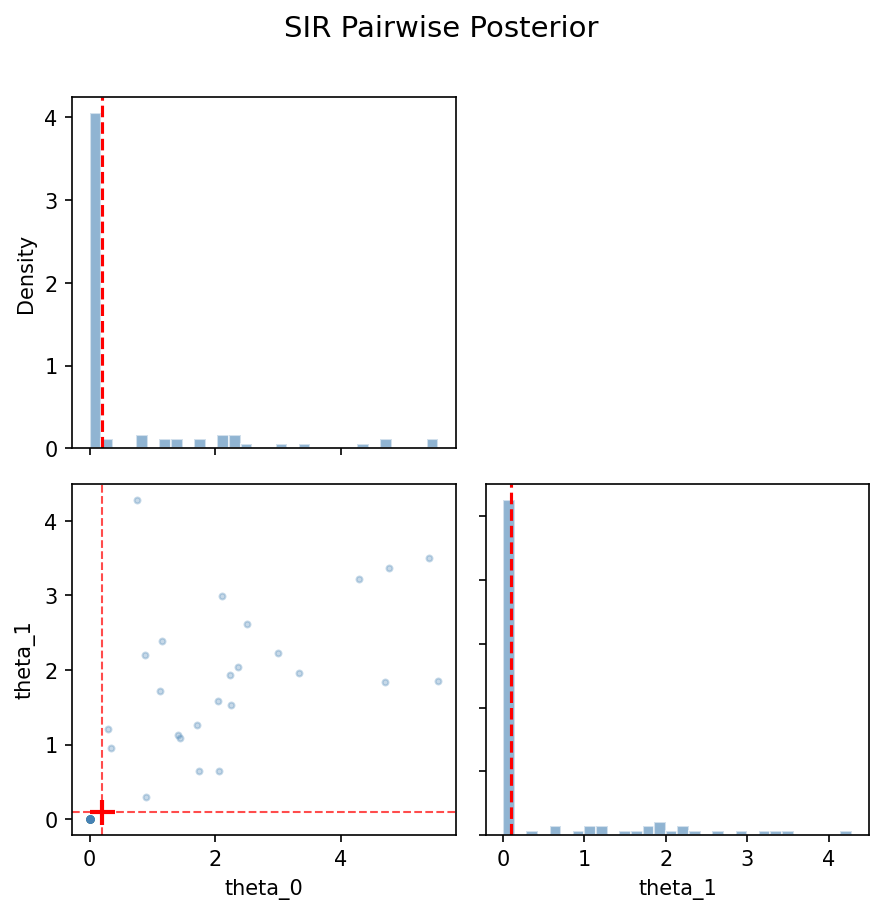
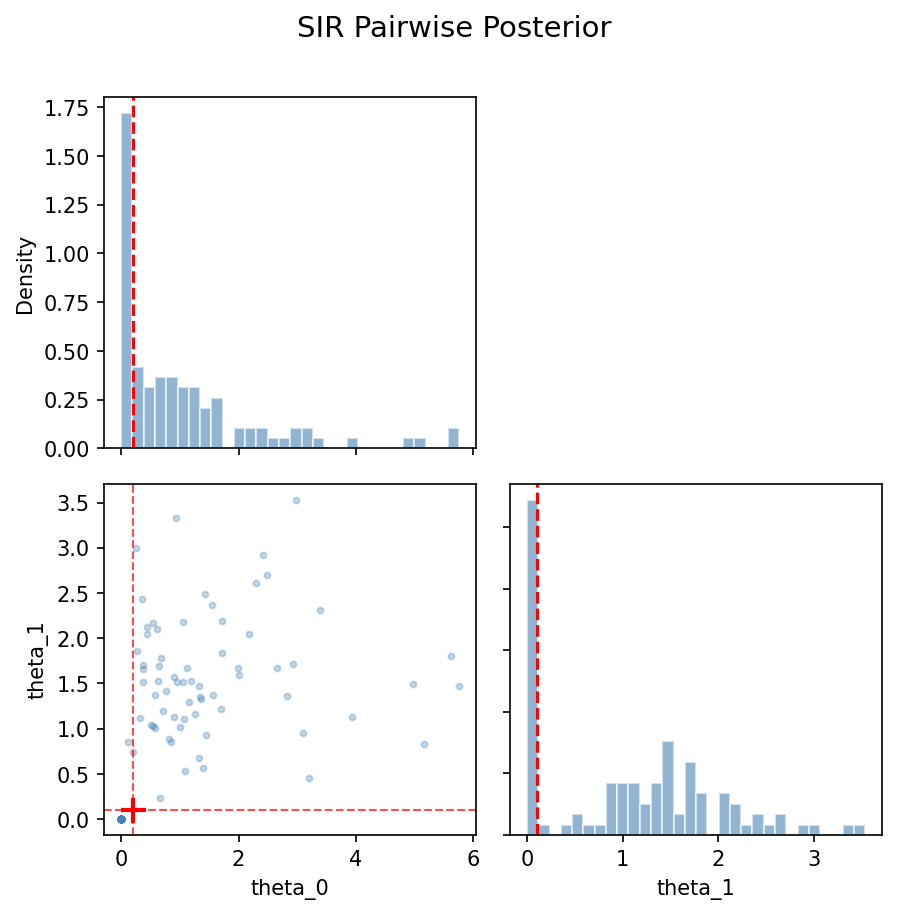
saving sampling results after running

diff --git a/src/config.py b/src/config.py
@@ -1,6 +1,6 @@
 # src/config.py
 config = {
-    "active_sim":"DoubleWellSDE", ## change this part to use different simulator
+    "active_sim":"LinearSDE", ## change this part to use different simulator
     
     "model": {
         "hidden_dim": 128,
@@ -28,10 +28,10 @@ config = {
             "params": {"dim": 5, "sigma": 1.0},
             "target": {"theta_true": [0.5, 0.5, 0.5, 0.5, 0.5], "x0_true": [0.0, 0.0, 0.0, 0.0, 0.0], "time_steps": 50}
         },
-        "PeriodicSDE": { ## currently not working
+        "PeriodicSDE": { 
             "name": "PeriodicSDE",
             "params": {"dt": 0.05, "sigma": 0.5},
-            "target": {"theta_true": [2.0, 0.0], "x0_true": [1.0, 0.0], "time_steps": 5}
+            "target": {"theta_true": [2.0, 0.0], "x0_true": [1.0, 0.0], "time_steps": 1}
         },
         "LinearSDE": {  # diagonal version: d_theta=6, much more stable
             "name": "LinearSDE",
@@ -39,7 +39,7 @@ config = {
             "target": {
                 "theta_true": [0.1, -0.2, 0.3, 0.5, 0.5, 0.5],
                 "x0_true": [1.0, 0.5, -0.5],
-                "time_steps": 10
+                "time_steps": 1
             }
         },
         "LinearSDE_full": {  # original full version: d_theta=18
@@ -53,8 +53,8 @@ config = {
         },
         "DoubleWellSDE": {
             "name": "DoubleWellSDE",
-            "params": {"dt": 0.01, "sigma": 0.5, "dim": 1},
-            "target": {"theta_true": [1.0, -0.5], "x0_true": [0.1], "time_steps": 50}
+            "params": {"dt": 0.01, "sigma": 0.1, "dim": 1},
+            "target": {"theta_true": [1.0, -0.5], "x0_true": [0.1], "time_steps": 1}
         },
         "LotkaVolterra": {
             "name": "LotkaVolterra",
@@ -63,8 +63,8 @@ config = {
         },
         "SIR": {
             "name": "SIR",
-            "params": {"sigma": 0.05, "dt": 0.1},
-            "target": {"theta_true": [0.2, 0.1], "x0_true": [0.99, 0.01, 0.0], "time_steps": 50}
+            "params": {"sigma": 0.1, "dt": 0.1},
+            "target": {"theta_true": [0.2, 0.1], "x0_true": [0.99, 0.01, 0.0], "time_steps": 1}
         },
         "KolmogorovFlow": {
             "name": "KolmogorovFlow",
